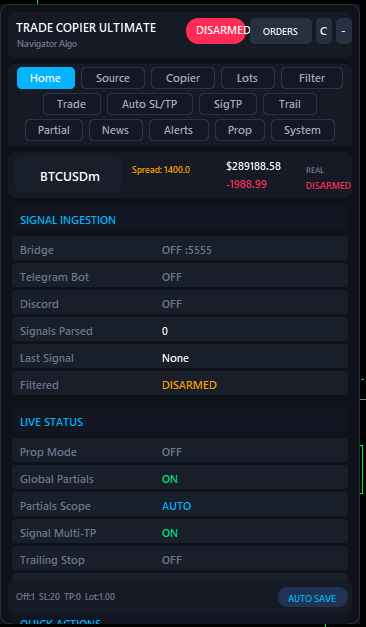
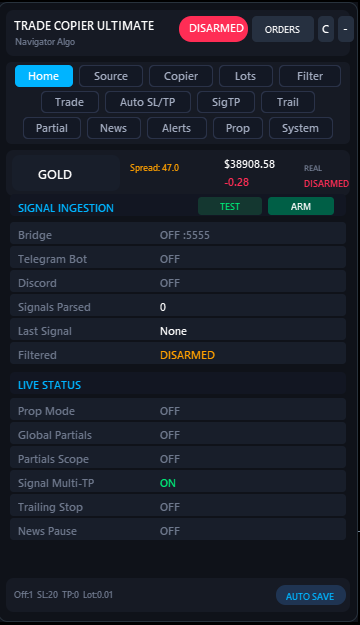
Refresh hero screenshots (new XAUUSD shots) and shrink home-page hero text
- assets/tcu/tcu-panel-disarmed.png and tcu-panel-livesignal.png: replaced
  with new XAUUSD/Home-tab shots from the v6.00 build. Updated alt text
  and width/height attrs on tradecopierultimate.html (4 references) to
  match the new dimensions (360x625 / 358x623).
- index.html hero: trimmed font sizes that were oversized.
  - H1: clamp(40px,7vw,86px) -> clamp(32px,5vw,62px), letter-spacing
    -0.03em -> -0.02em, line-height 0.9 -> 0.95.
  - H2: clamp(16px,2.5vw,26px) -> clamp(13px,1.6vw,18px).
  - hero-desc: 18px/1.8 -> 15px/1.7, max-width 560 -> 580.
  - hero-stats: margin-top 72 -> 52, stat padding 22x28 -> 16x22, num
    30px -> 24px, stats now wrap on narrow widths.
  - mobile @media: hero-h1 cap 58px -> 46px to match.

diff --git a/index.html b/index.html
@@ -104,13 +104,13 @@
 
 .hero-h1 {
   font-family: var(--font-head);
-  font-size: clamp(40px, 7vw, 86px);
+  font-size: clamp(32px, 5vw, 62px);
   font-weight: 900;
-  line-height: 0.9;
-  letter-spacing: -0.03em;
+  line-height: 0.95;
+  letter-spacing: -0.02em;
   color: var(--white);
   text-align: center;
-  margin-bottom: 10px;
+  margin-bottom: 12px;
   opacity: 0; animation: up 0.7s 0.25s forwards;
   text-wrap: balance;
 }
@@ -118,21 +118,21 @@
 
 .hero-h2 {
   font-family: var(--font-cond);
-  font-size: clamp(16px, 2.5vw, 26px);
+  font-size: clamp(13px, 1.6vw, 18px);
   font-weight: 600;
-  letter-spacing: 0.14em;
+  letter-spacing: 0.12em;
   color: var(--gold);
   text-align: center; text-transform: uppercase;
-  margin-bottom: 24px;
+  margin-bottom: 22px;
   opacity: 0; animation: up 0.7s 0.4s forwards;
 }
 
 .hero-desc {
-  max-width: 560px; text-align: center;
-  font-size: 18px; font-weight: 500;
+  max-width: 580px; text-align: center;
+  font-size: 15px; font-weight: 500;
   color: var(--muted2);
-  line-height: 1.8;
-  margin-bottom: 48px;
+  line-height: 1.7;
+  margin-bottom: 36px;
   opacity: 0; animation: up 0.7s 0.55s forwards;
 }
 
@@ -165,21 +165,22 @@
 .btn-ghost:hover { border-color: rgba(0,212,200,0.38); color: var(--white); transform: translateY(-2px); }
 
 .hero-stats {
-  display: flex; gap: 16px; margin-top: 72px;
+  display: flex; gap: 14px; margin-top: 52px;
   opacity: 0; animation: up 0.7s 0.85s forwards;
+  flex-wrap: wrap; justify-content: center;
 }
 .hero-stat {
-  padding: 22px 28px;
+  padding: 16px 22px;
   border: 1px solid rgba(36,48,64,0.72);
   background: rgba(15,21,32,0.72);
-  border-radius: 24px;
+  border-radius: 20px;
   box-shadow: 0 16px 34px rgba(0,0,0,0.16);
   text-align: center;
-  min-width: 150px;
+  min-width: 128px;
 }
 .hero-stat-num {
   font-family: var(--font-head);
-  font-size: 30px; font-weight: 800;
+  font-size: 24px; font-weight: 800;
   color: var(--teal); display: block;
 }
 .hero-stat-label {
@@ -810,7 +811,7 @@ footer {
   .cta-strip { padding: 56px 16px; }
 
   #hero { padding: 104px 16px 56px; min-height: auto; }
-  .hero-h1 { font-size: clamp(38px, 9.5vw, 58px); line-height: 0.95; }
+  .hero-h1 { font-size: clamp(30px, 7.5vw, 46px); line-height: 0.98; }
   .hero-h2 { font-size: 14px; margin-bottom: 18px; }
   .hero-desc { font-size: 15px; line-height: 1.7; margin-bottom: 32px; }
   .hero-btns { gap: 10px; width: 100%; }

diff --git a/tradecopierultimate.html b/tradecopierultimate.html
@@ -503,12 +503,12 @@
 
     <div class="hero-shots">
       <figure class="shot-figure">
-        <img src="assets/tcu/tcu-panel-disarmed.png" alt="Trade Copier Ultimate panel — DISARMED state, Home tab" loading="lazy" width="366" height="629">
+        <img src="assets/tcu/tcu-panel-disarmed.png" alt="Trade Copier Ultimate panel — DISARMED state, Home tab on XAUUSD" loading="lazy" width="360" height="625">
         <figcaption>// Disarmed by default</figcaption>
       </figure>
       <figure class="shot-figure">
-        <img src="assets/tcu/tcu-panel-livesignal.png" alt="Trade Copier Ultimate panel — Live signal received with duplicate filter active" loading="lazy" width="367" height="630">
-        <figcaption>// Bridge + Bot API online · live signal</figcaption>
+        <img src="assets/tcu/tcu-panel-livesignal.png" alt="Trade Copier Ultimate panel — ARMED, Bridge online, signals parsed, last signal showing on Home tab" loading="lazy" width="358" height="623">
+        <figcaption>// Armed · Bridge online · 4 signals parsed</figcaption>
       </figure>
     </div>
   </section>
@@ -589,11 +589,11 @@
         <figcaption>// SigTP · multi-TP allocation</figcaption>
       </figure>
       <figure class="shot-figure">
-        <img src="assets/tcu/tcu-panel-livesignal.png" alt="Home tab — Bridge ONLINE, Bot ONLINE, Last Signal received, Duplicate Filter active" loading="lazy" width="367" height="630">
+        <img src="assets/tcu/tcu-panel-livesignal.png" alt="Home tab — ARMED, Bridge ONLINE :5555, signals parsed, last signal and filter reason" loading="lazy" width="358" height="623">
         <figcaption>// Home · live status &amp; last signal</figcaption>
       </figure>
       <figure class="shot-figure">
-        <img src="assets/tcu/tcu-panel-disarmed.png" alt="Home tab — DISARMED state at first attach, no signals fire until ARM" loading="lazy" width="366" height="629">
+        <img src="assets/tcu/tcu-panel-disarmed.png" alt="Home tab — DISARMED state at first attach, no signals fire until ARM" loading="lazy" width="360" height="625">
         <figcaption>// Home · DISARMED at first attach</figcaption>
       </figure>
     </div>
